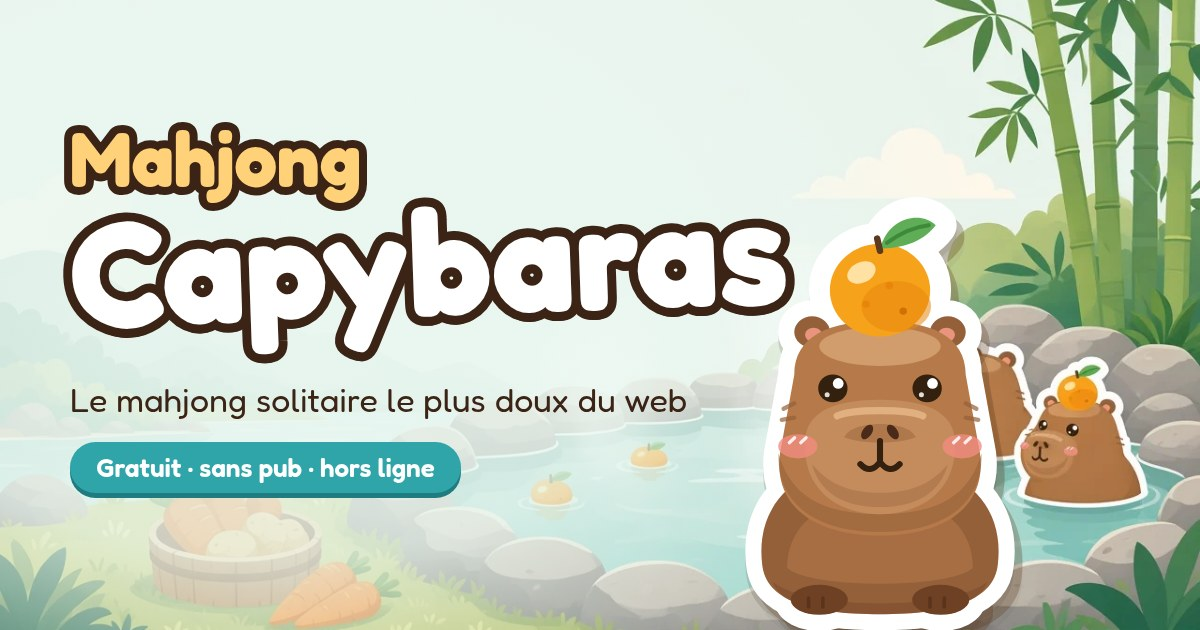
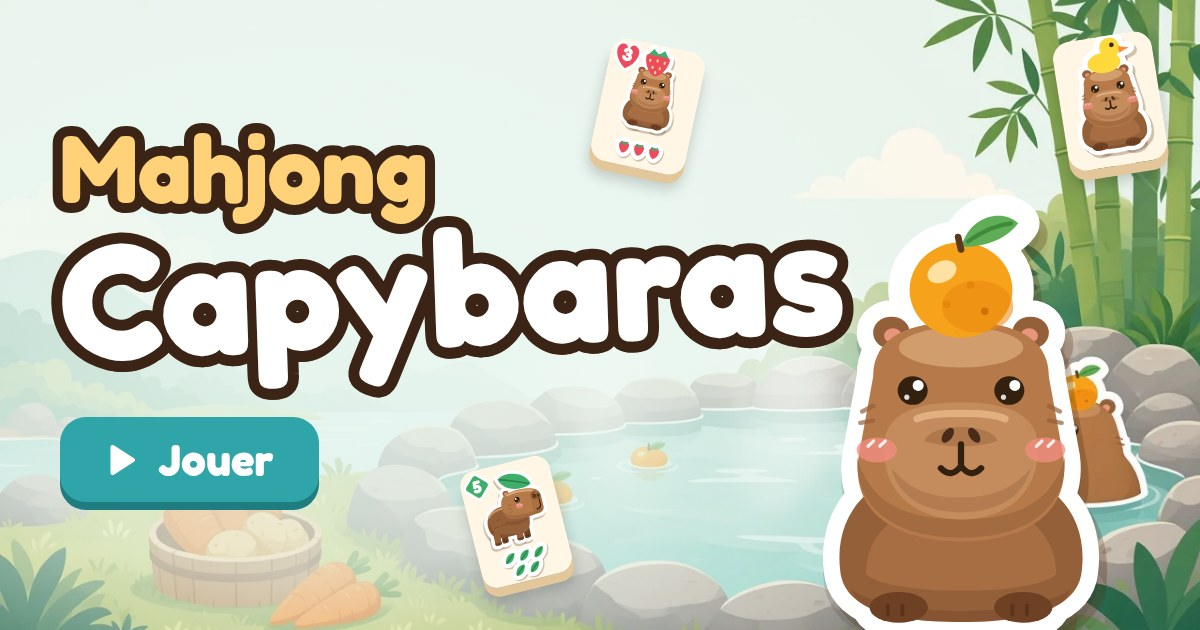
Bouton musique en jeu/accueil, fix pastille carottes (safe areas), PWA standalone, SEO/partage, nouvelle og-image, retrait sous-titre

Changed region(s): [[0.0308, 0.181, 0.925, 1.0], [0.8633, 0.0302, 0.9867, 0.3016], [0.4933, 0.0603, 0.5858, 0.3016]]

diff --git a/src/main.ts b/src/main.ts
@@ -4,7 +4,7 @@ import { KINDS, KIND_BY_ID, tileFace, capySvg, backSvg, faceSvg, type Theme } fr
 import { deal, isFree, matches, findHint, reshuffle, type Tile } from './engine';
 import { LAYOUTS, LEVELS, WORLDS, stars as starCount, score as scoreOf, type Level } from './levels';
 import { load, save, reset, unlocked, totalStars, type Run } from './storage';
-import { Sound } from './audio';
+import { Sound, DEFAULT_MUSIC } from './audio';
 import { Fx } from './fx';
 import { dailyLevel, endlessLevel, zenLevel, recordDaily, recordLate, missedDays, canReplay, REPLAY_DAYS, liveStreak, dayKey, frDate, OUTFITS, THEMES, BACKS, owns, buy, carrotReward, DIFFS, LEVEL_LEGEND, ACHIEVEMENTS, checkAchievements, type PlayLevel, type Diff, type Item, type Shelf } from './meta';
 
@@ -18,7 +18,9 @@ const ICON: Record<string, string> = {
   hint: '<path d="M12 3a6 6 0 0 0-3.5 10.9V16h7v-2.1A6 6 0 0 0 12 3zM9.5 18.5h5M10.5 21h3"/>',
   undo: '<path d="M9 7L4 12l5 5M4 12h10a6 6 0 0 1 0 12h-2" transform="translate(0 -3)"/>',
   shuffle: '<path d="M3 7h4l10 10h4M3 17h4l3-3M14 10l3-3h4M18 4l3 3-3 3M18 14l3 3-3 3"/>',
-  pause: '<path d="M8 5v14M16 5v14"/>', home: '<path d="M3 11l9-7 9 7v9H15v-6H9v6H3z"/>',
+  pause: '<path d="M8 5v14M16 5v14"/>',
+  note: '<path d="M9 17.5V5.5l10-2v12"/><circle cx="6.5" cy="17.5" r="2.6"/><circle cx="16.5" cy="15.5" r="2.6"/>',
+  noteoff: '<path d="M9 17.5V5.5l10-2v12"/><circle cx="6.5" cy="17.5" r="2.6"/><circle cx="16.5" cy="15.5" r="2.6"/><path d="M3.5 3.5l17 17" stroke="#fff" stroke-width="6"/><path d="M3.5 3.5l17 17"/>', home: '<path d="M3 11l9-7 9 7v9H15v-6H9v6H3z"/>',
   gear: '<circle cx="12" cy="12" r="3.2"/><path d="M12 2.5v3M12 18.5v3M2.5 12h3M18.5 12h3M5.3 5.3l2.1 2.1M16.6 16.6l2.1 2.1M5.3 18.7l2.1-2.1M16.6 7.4l2.1-2.1"/>',
   back: '<path d="M15 5l-7 7 7 7"/>', play: '<path d="M8 5l11 7-11 7z" fill="currentColor"/>', lock: '<rect x="5" y="11" width="14" height="10" rx="2"/><path d="M8 11V8a4 4 0 0 1 8 0v3"/>',
   share: '<path d="M12 15V3M7 8l5-5 5 5M5 13v6a2 2 0 0 0 2 2h10a2 2 0 0 0 2-2v-6"/>',
@@ -44,7 +46,7 @@ app.innerHTML = `
 <section class="view" id="v-modes"></section>
 <section class="view" id="v-coll"></section>
 <section class="view" id="v-game">
-  <header class="hud"><button class="iconbtn" id="g-pause" aria-label="Pause">${ic('pause')}</button><div class="lvl" id="g-lvl"></div>
+  <header class="hud"><div class="hbtns"><button class="iconbtn" id="g-pause" aria-label="Pause">${ic('pause')}</button>${musicBtn('g-music')}</div><div class="lvl" id="g-lvl"></div>
     <div class="chips"><span class="chip combo" id="g-combo"></span><span class="chip leg" id="g-leg" role="status"></span><span class="chip" id="g-pairs"></span><span class="chip" id="g-time">0:00</span><span class="chip" id="g-score">0</span></div></header>
   <main class="stage" id="stage"><div class="board" id="board"></div></main>
   <nav class="bar">
@@ -57,6 +59,16 @@ app.innerHTML = `
 <div class="rotate" id="rotate"><div class="rot-art">${capySvg('agrume')}<div class="phone"></div></div><h2>Tourne ton téléphone</h2><p>Mahjong Capybaras se joue à l'horizontale.</p></div>
 <div class="toast" id="toast" role="status" aria-live="polite"></div>`;
 
+/** Quick music mute (game HUD + home): same state as the settings toggle; unmuting keeps the chosen volume */
+function musicMuted() { return !S.settings.music || S.settings.musicVol <= 0; }
+function musicBtn(id: string) { const m = musicMuted(); return `<button class="iconbtn mubtn${m ? ' off' : ''}" id="${id}" aria-pressed="${m}" aria-label="${m ? 'Remettre la musique' : 'Couper la musique'}">${ic(m ? 'noteoff' : 'note')}</button>`; }
+function syncMusicBtns() { document.querySelectorAll<HTMLButtonElement>('.mubtn').forEach((b) => { b.outerHTML = musicBtn(b.id); }); }
+function toggleMusic() {
+  if (musicMuted()) { S.settings.music = true; if (S.settings.musicVol <= 0) S.settings.musicVol = DEFAULT_MUSIC; snd.setVolumes(S.settings.musicVol, S.settings.sfxVol); snd.setMusic(true); toast('Musique activée'); }
+  else { S.settings.music = false; snd.setMusic(false); toast('Musique coupée'); }
+  persist(); snd.play('click'); syncMusicBtns();
+}
+document.addEventListener('click', (e) => { const b = (e.target as Element).closest?.('.mubtn'); if (b) toggleMusic(); });
 function toast(msg: string, ms = 1500) { const t = $('toast'); t.textContent = msg; t.classList.add('show'); clearTimeout(+(t.dataset.h ?? 0)); t.dataset.h = String(setTimeout(() => t.classList.remove('show'), ms)); }
 let view = 'home';
 function show(v: string, world = -1) {
@@ -104,10 +116,9 @@ async function share(text: string, url: string) {
 function renderHome() {
   const tot = totalStars(S); const aff = affordable(); const run = validRun(); const today = dayKey(); const streak = liveStreak(S.stats, today);
   $('v-home').innerHTML = `
-  <div class="home"><button class="wallet" id="h-wallet" aria-label="${S.carrots} carottes${aff ? ', un achat est possible' : ''}">${CARROT()}<b>${S.carrots}</b>${aff ? '<i class="dot" aria-hidden="true"></i>' : ''}</button><div class="corner"><button class="iconbtn" id="h-help" aria-label="Comment jouer">${ic('help')}</button><button class="iconbtn" id="h-settings" aria-label="Réglages">${ic('gear')}</button></div>
+  <div class="home"><button class="wallet" id="h-wallet" aria-label="${S.carrots} carottes${aff ? ', un achat est possible' : ''}">${CARROT()}<b>${S.carrots}</b>${aff ? '<i class="dot" aria-hidden="true"></i>' : ''}</button><div class="corner">${musicBtn('h-music')}<button class="iconbtn" id="h-help" aria-label="Comment jouer">${ic('help')}</button><button class="iconbtn" id="h-settings" aria-label="Réglages">${ic('gear')}</button></div>
     <div class="home-l">
       <h1 class="logo"><span>Mahjong</span><span class="big">Capybaras</span></h1>
-      <p class="tag">Associe les capybaras, détends-toi au bord de l'onsen.</p>
       <div class="menu">
         <button class="btn primary xl ${run ? 'resume' : ''}" id="h-play">${ic('play')}<span>${run ? 'Reprendre' : tot ? 'Continuer' : 'Jouer'}${run ? `<small>${run.level.mode === 'level' ? `Niveau ${run.level.n + 1}` : run.level.mode === 'daily' ? (run.level.late ? 'Rattrapage' : 'Défi du jour') : run.level.mode === 'zen' ? 'Zen' : `Infini · manche ${run.level.round! + 1}`} · ${(run.kinds.length - run.removed.length) / 2} paires</small>` : ''}</span></button>
         <button class="btn" id="h-levels">${ic('map')}<span>Niveaux</span></button>
@@ -485,11 +496,11 @@ function settings(back?: () => void) {
   openOv(`<h2>Réglages</h2><div class="sets">${row('s-sfx', 'Effets sonores', S.settings.sfx)}${row('s-music', 'Musique lo-fi', S.settings.music)}${vol('v-sfx', 'Volume des effets', S.settings.sfxVol, S.settings.sfx)}${vol('v-music', 'Volume de la musique', S.settings.musicVol, S.settings.music)}${row('s-dim', 'Assombrir les tuiles bloquées', S.settings.dim)}${row('s-hl', 'Montrer les paires possibles', S.settings.hl)}${row('s-auto', 'Indice automatique (20 s)', S.settings.autohint)}${row('s-vib', 'Vibrations', S.settings.vibrate)}</div>
     <div class="row"><button class="btn" id="s-share">${ic('share')}<span>Partager le jeu</span></button><button class="btn danger" id="s-reset">Effacer la progression</button><button class="btn primary" id="s-ok">OK</button></div><p class="credits">Musique et sons créés dans le jeu · Police Fredoka (OFL)</p>`, 'settings');
   const bind = (id: string, key: 'sfx' | 'music' | 'dim' | 'vibrate' | 'hl' | 'autohint', after?: (v: boolean) => void) => { $(id).onclick = () => { S.settings[key] = !S.settings[key]; persist(); $(id).classList.toggle('on', S.settings[key]); $(id).setAttribute('aria-checked', String(S.settings[key])); after?.(S.settings[key]); snd.play('click'); }; };
-  bind('s-sfx', 'sfx', (v) => { snd.sfxOn = v; $('v-sfx').parentElement!.classList.toggle('off', !v); }); bind('s-music', 'music', (v) => { snd.setMusic(v); $('v-music').parentElement!.classList.toggle('off', !v); });
-  const slide = (id: string, key: 'musicVol' | 'sfxVol') => { const el = $(id) as HTMLInputElement; const set = () => { S.settings[key] = +el.value / 100; snd.setVolumes(S.settings.musicVol, S.settings.sfxVol); }; el.oninput = set; el.onchange = () => { set(); persist(); if (key === 'sfxVol') snd.play('select'); }; };
+  bind('s-sfx', 'sfx', (v) => { snd.sfxOn = v; $('v-sfx').parentElement!.classList.toggle('off', !v); }); bind('s-music', 'music', (v) => { snd.setMusic(v); $('v-music').parentElement!.classList.toggle('off', !v); syncMusicBtns(); });
+  const slide = (id: string, key: 'musicVol' | 'sfxVol') => { const el = $(id) as HTMLInputElement; const set = () => { S.settings[key] = +el.value / 100; snd.setVolumes(S.settings.musicVol, S.settings.sfxVol); }; el.oninput = set; el.onchange = () => { set(); persist(); syncMusicBtns(); if (key === 'sfxVol') snd.play('select'); }; };
   slide('v-sfx', 'sfxVol'); slide('v-music', 'musicVol'); bind('s-dim', 'dim', () => refresh()); bind('s-vib', 'vibrate'); bind('s-hl', 'hl', () => refresh()); bind('s-auto', 'autohint', () => g && (g.idle = Date.now()));
-  $('s-reset').onclick = () => { if ($('s-reset').dataset.c) { const st = reset(); Object.assign(S, st); persist(); toast('Progression effacée'); renderHome(); show('home'); } else { $('s-reset').dataset.c = '1'; $('s-reset').textContent = 'Confirmer ?'; } };
-  $('s-share').onclick = () => void share('Mahjong Capybaras 🦫 : le mahjong le plus doux du web. Gratuit, sans pub.', base());
+  $('s-reset').onclick = () => { if ($('s-reset').dataset.c) { const st = reset(); Object.assign(S, st); persist(); snd.sfxOn = S.settings.sfx; snd.setVolumes(S.settings.musicVol, S.settings.sfxVol); snd.setMusic(S.settings.music); syncMusicBtns(); toast('Progression effacée'); renderHome(); show('home'); } else { $('s-reset').dataset.c = '1'; $('s-reset').textContent = 'Confirmer ?'; } };
+  $('s-share').onclick = () => void share('Mahjong Capybaras 🦫 : un mahjong solitaire avec des capybaras.', base());
   $('s-ok').onclick = () => { snd.play('click'); if (back) back(); else closeOv(); };
 }
 function howTo(then?: () => void) {

diff --git a/e2e/features.spec.ts b/e2e/features.spec.ts
@@ -203,3 +203,75 @@ test('undo budget: a ×4 combo earns one extra undo', async ({ page }) => {
   await seed(page); await page.goto('/?level=20'); await expect(page.locator('#g-undo-n')).toHaveText('3');
   await G(page).pairs(4); await expect(page.locator('#g-undo-n')).toHaveText('4'); await expect(page.locator('.pop', { hasText: '+1 annulation' })).toHaveCount(1);
 });
+
+const box = async (p: Page, sel: string) => (await p.locator(sel).boundingBox())!;
+const overlaps = (a: { x: number; y: number; width: number; height: number }, b: typeof a) => a.x < b.x + b.width && a.x + a.width > b.x && a.y < b.y + b.height && a.y + a.height > b.y;
+test('game HUD music button: big enough, never over the board or other HUD items (844x390, 667x375, desktop)', async ({ page }) => {
+  await seed(page, { settings: { sfx: false, music: true, musicVol: 0.3, dim: true, vibrate: false } });
+  const sizes = test.info().project.name.startsWith('mobile') ? [{ width: 844, height: 390 }, { width: 667, height: 375 }] : [{ width: 1440, height: 900 }, { width: 1024, height: 640 }];
+  for (const vp of sizes) {
+    await page.setViewportSize(vp); await page.goto('/?level=6'); await G(page).pairs(4); await expect(page.locator('#g-combo')).toBeVisible();
+    await page.locator('#g-combo').evaluate((el) => Promise.all(el.getAnimations().map((a) => a.finished)));
+    const m = await box(page, '#g-music'); expect(m.width).toBeGreaterThanOrEqual(44); expect(m.height).toBeGreaterThanOrEqual(44);
+    await expect(page.locator('#g-music')).toBeInViewport({ ratio: 1 });
+    expect(overlaps(m, await box(page, '#stage'))).toBe(false);
+    for (const sel of ['#g-pause', '#g-lvl', '#g-combo', '#g-pairs', '#g-time', '#g-score', '.bar']) expect(overlaps(m, await box(page, sel)), sel).toBe(false);
+    await expect(page.locator('#g-score')).toBeInViewport({ ratio: 1 });
+  }
+});
+test('music button: one tap mutes / unmutes music, keeps the chosen volume, persists and stays in sync with settings', async ({ page }) => {
+  await seed(page, { settings: { sfx: false, music: true, musicVol: 0.3, dim: true, vibrate: false } }); await page.goto('/?level=0');
+  const b = page.locator('#g-music'); await expect(b).toHaveAttribute('aria-label', 'Couper la musique');
+  await tap(page, '#g-music'); await expect(page.locator('#g-music')).toHaveAttribute('aria-label', 'Remettre la musique'); await expect(page.locator('#g-music')).toHaveAttribute('aria-pressed', 'true');
+  await expect(page.locator('#toast')).toHaveText('Musique coupée');
+  let st = (await saveOf(page)).settings; expect(st.music).toBe(false); expect(st.musicVol).toBeCloseTo(0.3); expect(st.sfx).toBe(false);
+  await page.reload(); await expect(page.locator('#g-music')).toHaveAttribute('aria-label', 'Remettre la musique');
+  // settings toggle reflects it, and turning music on there updates the HUD button
+  await tap(page, '#g-pause'); await tap(page, '#p-settings'); await expect(page.locator('#s-music')).toHaveAttribute('aria-checked', 'false');
+  await expect(page.locator('#v-music')).toHaveValue('30');
+  await tap(page, '#s-music'); await expect(page.locator('#g-music')).toHaveAttribute('aria-label', 'Couper la musique');
+  await tap(page, '#s-ok'); await tap(page, '#p-resume').catch(() => {});
+  await tap(page, '#g-music'); await tap(page, '#g-music'); await expect(page.locator('#toast')).toHaveText('Musique activée');
+  st = (await saveOf(page)).settings; expect(st.music).toBe(true); expect(st.musicVol).toBeCloseTo(0.3);
+});
+test('home has the music button in the top corner; slider at 0 shows muted and a tap brings music back audibly', async ({ page }) => {
+  await seed(page, { settings: { sfx: false, music: true, musicVol: 0, dim: true, vibrate: false } }); await page.goto('/');
+  const h = page.locator('#h-music'); await expect(h).toBeVisible(); await expect(h).toHaveAttribute('aria-label', 'Remettre la musique');
+  await page.waitForFunction(() => document.getAnimations().every((a) => a.playState !== 'running' || (a.effect?.getTiming().iterations ?? 1) === Infinity)); const hb = await box(page, '#h-music'); expect(await page.locator('#h-music').evaluate((e) => (e as HTMLElement).offsetWidth)).toBeGreaterThanOrEqual(44); for (const sel of ['#h-help', '#h-settings', '#h-wallet']) expect(overlaps(hb, await box(page, sel)), sel).toBe(false);
+  await tap(page, '#h-music'); await expect(page.locator('#h-music')).toHaveAttribute('aria-label', 'Couper la musique');
+  const st = (await saveOf(page)).settings; expect(st.music).toBe(true); expect(st.musicVol).toBeGreaterThan(0.3);
+});
+test('home: carrot pill and corner buttons never overlap the title or menu (iPhone Safari sizes, notch insets)', async ({ page }) => {
+  test.skip(!test.info().project.name.startsWith('mobile'), 'phone sizes');
+  await seed(page, { carrots: 85 });
+  const cdp = await page.context().newCDPSession(page);
+  for (const inset of [null, { top: 0, left: 59, right: 59, bottom: 21 }]) {
+    if (inset) await cdp.send('Emulation.setSafeAreaInsetsOverride', { insets: inset });
+    for (const vp of [{ width: 1024, height: 472 }, { width: 932, height: 430 }, { width: 844, height: 390 }, { width: 667, height: 375 }]) {
+      await page.setViewportSize(vp); await page.goto('/'); await expect(page.locator('.logo')).toBeVisible();
+      const [w, c, logo, menu] = await Promise.all(['#h-wallet', '.corner', '.logo', '.menu'].map((s) => box(page, s)));
+      for (const [a, b, n] of [[w, logo, 'pill/logo'], [w, menu, 'pill/menu'], [c, logo, 'corner/logo'], [c, menu, 'corner/menu']] as const) expect(overlaps(a, b), `${n} ${vp.width}x${vp.height} ${JSON.stringify(inset)}`).toBe(false);
+      expect(w.x).toBeGreaterThanOrEqual(inset ? inset.left : 0); expect(c.x + c.width).toBeLessThanOrEqual(vp.width - (inset ? inset.right : 0));
+      await expect(page.locator('#h-play')).toBeInViewport({ ratio: 1 }); await expect(page.locator('#h-coll')).toBeInViewport({ ratio: 1 });
+    }
+  }
+  await expect(page.locator('.home .tag')).toHaveCount(0);
+});
+test('PWA + SEO: standalone manifest with wide screenshots, French meta, JSON-LD, robots and sitemap', async ({ page }) => {
+  const m = await (await page.request.get('/manifest.webmanifest')).json();
+  expect(m.display).toBe('standalone'); expect(m.display_override).toContain('fullscreen'); expect(m.lang).toBe('fr'); expect(m.id).toBeTruthy(); expect(m.categories).toContain('games');
+  expect(m.description).not.toMatch(/doux du web|gratuit|sans pub/i);
+  expect(m.icons.some((i: { purpose: string }) => i.purpose === 'maskable')).toBe(true); expect(m.icons.some((i: { purpose: string }) => i.purpose === 'any')).toBe(true);
+  expect(m.screenshots.length).toBeGreaterThanOrEqual(3);
+  for (const s of [...m.screenshots, ...m.icons]) expect((await page.request.get('/' + s.src)).status(), s.src).toBe(200);
+  for (const s of m.screenshots) { expect(s.form_factor).toBe('wide'); expect(s.label.length).toBeGreaterThan(5); }
+  await page.goto('/');
+  const meta = (sel: string) => page.locator(sel).getAttribute('content');
+  expect(await meta('meta[name="description"]')).not.toMatch(/doux du web|gratuit|sans pub/i); expect(await meta('meta[property="og:description"]')).not.toMatch(/doux du web|gratuit|sans pub/i);
+  expect(await meta('meta[property="og:locale"]')).toBe('fr_FR'); expect(await meta('meta[property="og:site_name"]')).toBe('Mahjong Capybaras'); expect(await meta('meta[name="twitter:card"]')).toBe('summary_large_image');
+  expect(await meta('meta[name="apple-mobile-web-app-status-bar-style"]')).toBe('black-translucent'); expect(await meta('meta[name="viewport"]')).toContain('viewport-fit=cover');
+  expect(await page.locator('link[rel="canonical"]').getAttribute('href')).toBe('https://tonimalt-af.github.io/capy-mahjong/');
+  const ld = JSON.parse((await page.locator('script[type="application/ld+json"]').textContent())!); expect(ld['@type']).toBe('VideoGame'); expect(ld.isAccessibleForFree).toBe(true); expect(ld.inLanguage).toBe('fr');
+  expect(await page.title()).toContain('Mahjong Capybaras');
+  expect((await page.request.get('/robots.txt')).status()).toBe(200); expect(await (await page.request.get('/sitemap.xml')).text()).toContain('<loc>https://tonimalt-af.github.io/capy-mahjong/</loc>');
+});

diff --git a/index.html b/index.html
@@ -1,9 +1,13 @@
 <!doctype html><html lang="fr"><head><meta charset="utf-8">
 <meta name="viewport" content="width=device-width,initial-scale=1,viewport-fit=cover,user-scalable=no">
-<title>Mahjong Capybaras</title>
-<meta name="description" content="Le mahjong solitaire le plus doux du web : associe les capybaras, 30 niveaux, 5 mondes, gratuit et sans pub.">
-<meta name="theme-color" content="#7FC8B4"><meta name="mobile-web-app-capable" content="yes"><meta name="apple-mobile-web-app-capable" content="yes"><meta name="apple-mobile-web-app-status-bar-style" content="black-translucent"><meta name="apple-mobile-web-app-title" content="Capybaras">
+<title>Mahjong Capybaras · mahjong solitaire avec des capybaras</title>
+<meta name="description" content="Un mahjong solitaire avec des capybaras : associe les tuiles par paires à travers 5 mondes et 30 niveaux, sur mobile et ordinateur.">
+<link rel="canonical" href="https://tonimalt-af.github.io/capy-mahjong/"><meta name="robots" content="index,follow">
+<meta name="theme-color" content="#7FC8B4"><meta name="mobile-web-app-capable" content="yes"><meta name="apple-mobile-web-app-capable" content="yes"><meta name="apple-mobile-web-app-status-bar-style" content="black-translucent"><meta name="apple-mobile-web-app-title" content="Capybaras"><meta name="application-name" content="Mahjong Capybaras">
 <link rel="manifest" href="./manifest.webmanifest"><link rel="icon" type="image/png" sizes="32x32" href="./icons/favicon-32.png"><link rel="icon" type="image/png" sizes="48x48" href="./icons/favicon-48.png"><link rel="apple-touch-icon" href="./icons/apple-touch-icon.png">
-<meta property="og:title" content="Mahjong Capybaras"><meta property="og:description" content="Associe les capybaras. Gratuit, sans pub, jouable hors ligne."><meta property="og:url" content="https://tonimalt-af.github.io/capy-mahjong/"><meta property="og:image" content="https://tonimalt-af.github.io/capy-mahjong/og-image.jpg"><meta property="og:image:type" content="image/jpeg"><meta property="og:image:width" content="1200"><meta property="og:image:height" content="630"><meta property="og:image:alt" content="Mahjong Capybaras : un capybara avec un yuzu sur la tête au bord d'un onsen"><meta property="og:locale" content="fr_FR"><meta property="og:site_name" content="Mahjong Capybaras"><meta property="og:type" content="website"><meta name="twitter:card" content="summary_large_image"><meta name="twitter:image" content="https://tonimalt-af.github.io/capy-mahjong/og-image.jpg"><link rel="canonical" href="https://tonimalt-af.github.io/capy-mahjong/">
+<meta property="og:type" content="website"><meta property="og:site_name" content="Mahjong Capybaras"><meta property="og:locale" content="fr_FR"><meta property="og:url" content="https://tonimalt-af.github.io/capy-mahjong/"><meta property="og:title" content="Mahjong Capybaras"><meta property="og:description" content="Un mahjong solitaire avec des capybaras.">
+<meta property="og:image" content="https://tonimalt-af.github.io/capy-mahjong/og-image.jpg"><meta property="og:image:secure_url" content="https://tonimalt-af.github.io/capy-mahjong/og-image.jpg"><meta property="og:image:type" content="image/jpeg"><meta property="og:image:width" content="1200"><meta property="og:image:height" content="630"><meta property="og:image:alt" content="Mahjong Capybaras : un capybara avec un yuzu sur la tête au bord d'un onsen, et un bouton Jouer">
+<meta name="twitter:card" content="summary_large_image"><meta name="twitter:title" content="Mahjong Capybaras"><meta name="twitter:description" content="Un mahjong solitaire avec des capybaras."><meta name="twitter:image" content="https://tonimalt-af.github.io/capy-mahjong/og-image.jpg"><meta name="twitter:image:alt" content="Mahjong Capybaras : un capybara au bord d'un onsen">
+<script type="application/ld+json">{"@context": "https://schema.org", "@type": "VideoGame", "name": "Mahjong Capybaras", "description": "Un mahjong solitaire avec des capybaras.", "genre": ["Puzzle", "Mahjong solitaire"], "gamePlatform": ["Navigateur web", "Mobile", "Ordinateur"], "applicationCategory": "Game", "operatingSystem": "Web", "playMode": "SinglePlayer", "isAccessibleForFree": true, "inLanguage": "fr", "image": "https://tonimalt-af.github.io/capy-mahjong/og-image.jpg", "url": "https://tonimalt-af.github.io/capy-mahjong/", "author": {"@type": "Person", "name": "Maxime Durand"}, "offers": {"@type": "Offer", "price": "0", "priceCurrency": "EUR"}}</script>
 <style>html,body{background:#BFE6D9;margin:0}</style>
-</head><body><div id="app"></div><script type="module" src="/src/main.ts"></script></body></html>
+</head><body><noscript><div style="font-family:sans-serif;max-width:560px;margin:40px auto;padding:0 20px;color:#3B2416"><h1>Mahjong Capybaras</h1><p>Un mahjong solitaire avec des capybaras : associe les tuiles identiques par paires pour vider le plateau, à travers 5 mondes et 30 niveaux. Le jeu a besoin de JavaScript pour fonctionner.</p></div></noscript><div id="app"></div><script type="module" src="/src/main.ts"></script></body></html>

diff --git a/src/style.css b/src/style.css
@@ -390,3 +390,21 @@ button.wallet{border:0;font:inherit;color:inherit}
 @media (prefers-reduced-motion:reduce){#v-home::before,#v-home::after{transition:none}}
 /* Settings: two columns on wide screens so the volume sliders fit without scrolling */
 @media (min-width:760px) and (min-height:501px){.card.settings{max-width:min(820px,94vw)}.card.settings .sets{display:grid;grid-template-columns:1fr 1fr;gap:8px;min-width:min(760px,88vw)}}
+/* Quick music mute: next to pause in the HUD, in the home corner */
+.hbtns{display:flex;gap:8px;align-items:center;flex:none}
+.mubtn .ic{transition:opacity .15s}.mubtn.off .ic{opacity:.6}
+@media (max-height:500px){
+  #v-game .hud .hbtns{flex-direction:column;align-items:flex-start;gap:8px}
+  #v-game .hud .iconbtn,.corner .iconbtn{width:44px;height:44px}
+}
+/* Home: the carrot pill and the corner buttons live in a reserved top band, so the title can never slide under them.
+   Safe areas (notch, black-translucent status bar) are already padded by .view: don't add env() again here
+   (that double inset pushed the pill onto the title on iPhone) */
+.home{--topband:66px;padding:var(--topband) 5vw 14px;align-items:safe center;overflow-y:auto;box-sizing:border-box;min-height:0}
+.home>.wallet{top:12px;left:14px;min-height:44px;box-sizing:border-box}.home>.corner{top:12px;right:14px}
+@media (max-height:500px){.home{--topband:60px;padding-bottom:8px;padding-left:4vw;padding-right:4vw}.home>.wallet,.home>.corner{top:8px}}
+@media (min-width:1100px) and (min-height:700px){.home{--topband:80px}}
+/* Home without subtitle: a bit more air between the logo and the menu */
+.home .logo{margin-bottom:10px}
+@media (max-height:500px){.home .logo{margin-bottom:8px}}
+@media (min-width:1100px) and (min-height:700px){.home .logo{margin-bottom:18px}}
